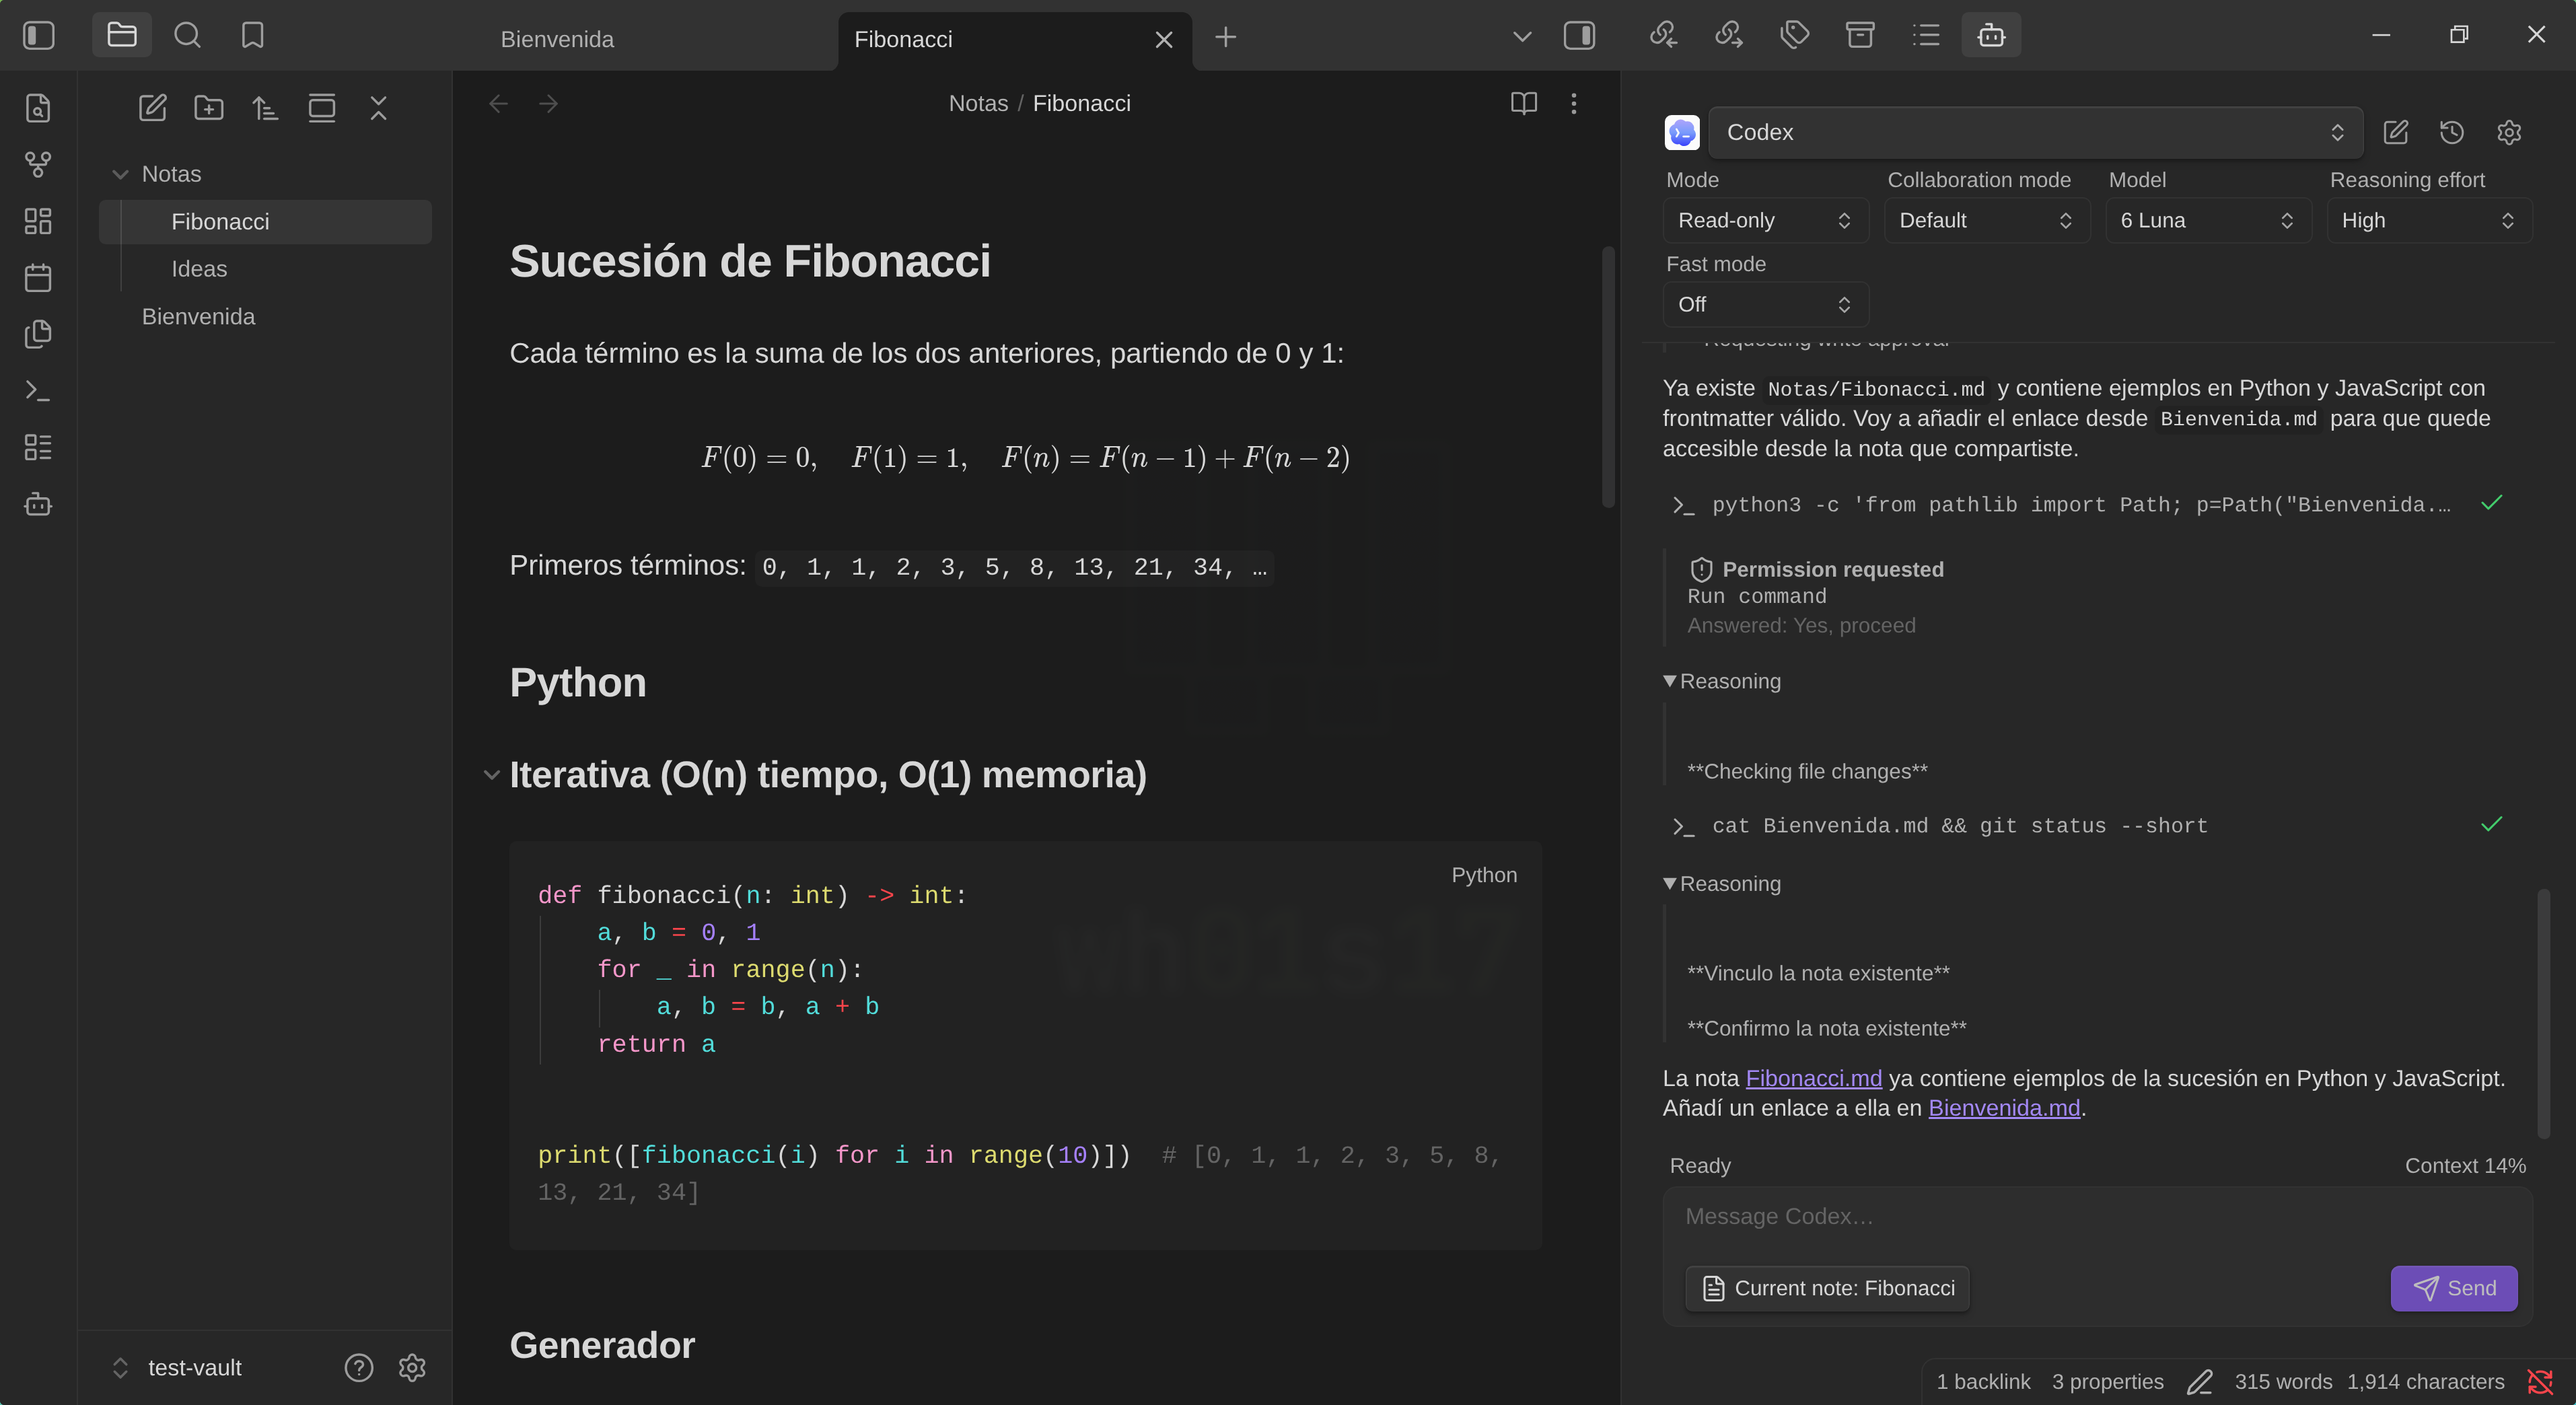
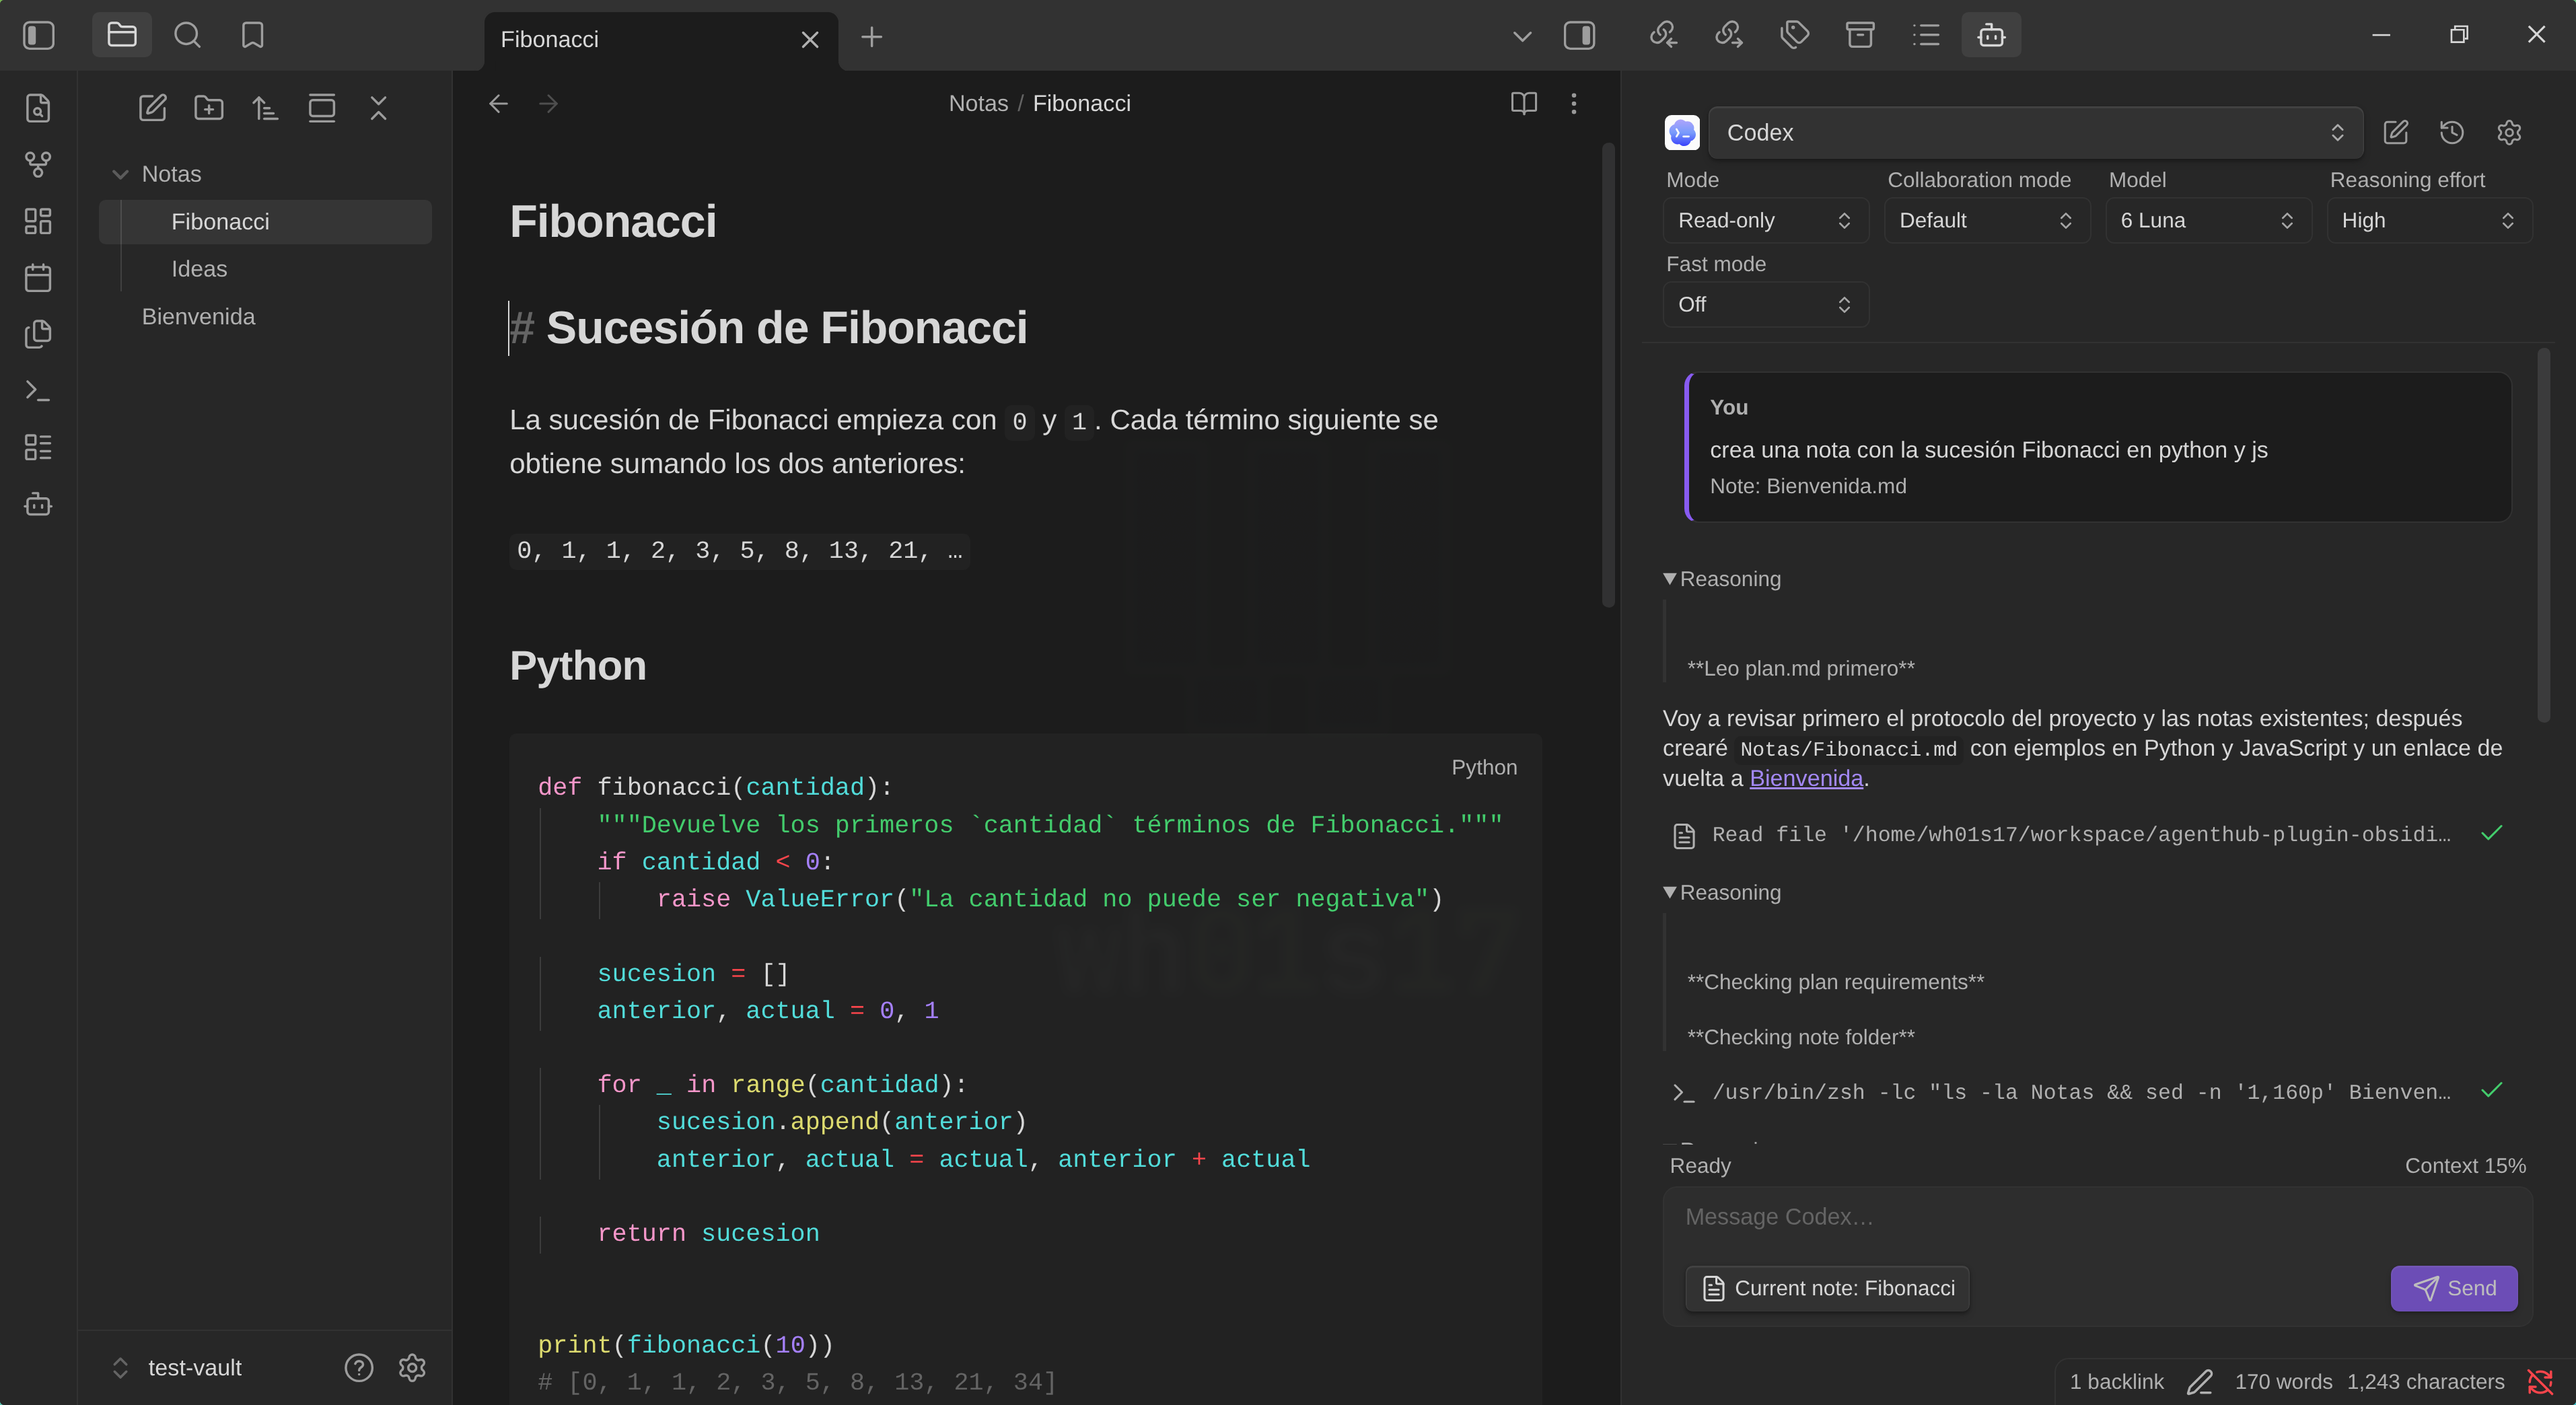
fix(chat): allow mouse selection and document real conversation [T6.10][T6.5]

diff --git a/styles.css b/styles.css
@@ -106,6 +106,7 @@
 }
 
 .agenthub-message.is-user {
+  user-select: text;
   align-self: flex-end;
   flex-shrink: 0;
   width: calc(100% - var(--size-4-3));

diff --git a/plan.md b/plan.md
@@ -41,10 +41,10 @@
 | Campo | Valor |
 |---|---|
 | Fase actual | **Fase 6 — Pulido**: Fases 0–4 cerradas; **0.1.0 preparada localmente**, 0.0.5 sigue publicada. Changelog y capturas del usuario incorporados; BRAT 0.0.5 comprobado. |
-| Próxima tarea | Cerrar revisión humana T6.3/T6.6 según `docs/checklist-0.1.0.md`; completar selección de capturas con el usuario, repetir Claude cuando haya cuota y preparar tag/borrador tras cerrar criterios. Publicar con confirmación. Envío a comunidad opcional; Fase 7 descartada. |
+| Próxima tarea | Cerrar revisión humana T6.3/T6.6 según `docs/checklist-0.1.0.md`; repetir Claude cuando haya cuota y preparar tag/borrador tras cerrar criterios. Capturas del usuario incorporadas. Publicar con confirmación. Envío a comunidad opcional; Fase 7 descartada. |
 | Tareas en paralelo posibles | Publicación opcional en la comunidad (Q3); Fase 5 solo si aparece una limitación real de ACP (ADR-025). |
 | Bloqueos | Pruebas reales de Claude bloqueadas por límite de sesión del proveedor. Lector de pantalla y alto contraste nativo requieren revisión humana en un entorno disponible. |
-| Última actualización | 2026-10-01 — Preparación local 0.1.0, changelog, capturas del usuario, BRAT y e2e reales; pendientes detallados en la checklist, Codex |
+| Última actualización | 2026-10-01 — Arreglada selección con mouse de mensajes propios para 0.1.0; pendientes detallados en la checklist, Codex |
 | Código existente | Núcleo + ACP + UI + contexto de Obsidian (Fases 0–3 cerradas); guardado automático de sesiones con índice/JSONL, debounce, retención y ajustes de historial. Confirmación de modos sin restricciones, Codex en solo lectura y respaldo de opciones Gemini. Lint y build pasan; 198 tests pasan, 2 e2e omitidos. Rama `main`. |
 
 ### 0.2 Protocolo para un agente que retoma el trabajo
@@ -1303,7 +1303,7 @@ aprobar y denegar un permiso, cancelar un turno; al cerrar la vista o desactivar
 - [x] **T6.8** Confirmación explícita y aviso rojo para modos sin restricciones; Codex ACP en solo lectura por defecto (ADR-030).
 - [x] **T6.9** Mostrar y cambiar modelo/modo de agentes ACP que anuncian `models`/`modes` sin `configOptions` (Gemini 0.62); no fabricar opciones de esfuerzo ausentes (ADR-031).
 
-- [x] **T6.10** Mensajes del usuario con etiqueta «Tú»/«You», tarjeta de fondo propio, borde de acento y espacio entre turnos; estilos del tema de Obsidian.
+- [x] **T6.10** Mensajes del usuario con etiqueta «Tú»/«You», tarjeta de fondo propio, borde de acento y espacio entre turnos; estilos del tema de Obsidian y texto seleccionable con el mouse.
 
 ### Fase 7 — Descartada: modo terminal
 
@@ -1692,3 +1692,5 @@ llegar al límite. No aplica a este plan, a archivos generados (`pnpm-lock.yaml`
 - **2026-10-01 · Codex** — Revisadas las adiciones del usuario a §8.4 y AGENTS.md: próxima release 0.1.0; MINOR para funciones/comportamiento/datos y PATCH para arreglos/estilo/rendimiento/docs. README y comentario del workflow sincronizados con el bump manual y tag sin `v`; procedimiento de beta documentado como pre-release sin Latest. Añadida 0.0.5 al historial y corregido el estado del hito: T6.3/T6.6 mantienen sus comprobaciones manuales pendientes. §0.1 incorpora changelog y capturas como requisitos de 0.1.0. Publicación solo con confirmación del usuario. Sin cambios de código ejecutable ni nueva release. Lint/build sin errores y 198 pruebas pasan (2 e2e omitidas).
 
 - **2026-10-01 · usuario + Codex** — Preparación local de **0.1.0 [T6.3/T6.5/T6.6]**: creado CHANGELOG.md con releases publicadas y Unreleased; metadatos sincronizados sin tag ni publicación; instrucciones del script corregidas. A pedido del usuario, capturas exclusivamente aportadas por él: nota con conversación Codex y cuatro vistas de ajustes incorporadas al README; pendientes chat con mensaje propio visible y nueva captura de permisos. La captura de permisos mostró un botón largo que desbordaba: CSS corregido con texto envuelto, comprobado en Obsidian 1.13.7 claro/oscuro al 100/200 %, tarjeta sin desborde. Recorrido nativo del diálogo al 200 %: Tab dentro de los dos botones, Escape conserva modo y devuelve foco. BRAT 2.2.0 verificó instalación limpia 0.0.5 y actualización 0.0.4 → 0.0.5; ajustes y cuatro elementos del transcript conservados (timestamps de guardado cambian). E2e reales: OpenCode/Codex pasan lectura/escritura y reanudación (4 pruebas); Claude falla sus dos pruebas con cuota agotada del proveedor. Suite normal: 198 pasan, 2 optativas omitidas; lint/build sin errores, 7 avisos existentes. Evidencia y guía humana en `docs/release-0.1.0.md` y `docs/checklist-0.1.0.md`. T6.3/T6.6 siguen parciales por lector de pantalla, alto contraste nativo, contraste inconcluso y pasada visual final; después tag/borrador, confirmación y BRAT final 0.1.0. Cambios del usuario en test-vault se dejan fuera del commit de preparación. Fase 7 descartada.
+
+- **2026-10-01 · usuario + Codex** — **T6.10:** corregido el texto del mensaje propio no seleccionable. Reproducción nativa en Obsidian 1.13.7: estilo calculado `user-select: none`, arrastre con mouse sin selección. La tarjeta declara `user-select: text`, también para autor/adjuntos; tras corregir, el mismo arrastre selecciona «Seleccionar este mensaje». Changelog y evidencias actualizados; paquete local 0.1.0 regenerado. Lint/build correctos, 198 pruebas pasan y 2 optativas omitidas; 7 avisos existentes. Sin publicación.

diff --git a/docs/checklist-0.1.0.md b/docs/checklist-0.1.0.md
@@ -19,10 +19,11 @@ Versión pública actual: 0.0.5. Fecha de comprobación: 2026-10-01 (Chile).
 | Conservación de datos con BRAT | Pasa en el caso probado | data.json idéntico y cuatro elementos de la conversación conservados. Las marcas de tiempo de guardado del JSONL cambian al recargar. |
 | Diálogo al 200 %: teclado | Pasa | Build local 0.1.0: foco inicial en cancelar; Tab recorre ambos botones y vuelve al primero; Escape conserva modo y devuelve foco a Mode. Diálogo de 510 px sin desborde; pasada previa de 196 px también comprobada. |
 | Botones de permisos largos | Corregido y comprobado | Texto envuelto, incluso argumentos sin espacios. Temas claro/oscuro, zoom 100/200 %; tarjeta de 250/238 px con scrollWidth idéntico al ancho. |
+| Selección del mensaje propio con mouse | Corregido y comprobado | Arrastre nativo en Obsidian: antes user-select none y selección vacía; después text y texto seleccionado. |
 | Axe en Obsidian | Sin violaciones en el estado probado | Quedan resultados de contraste inconclusos; no equivale a lector de pantalla. |
 | Permiso Codex en Obsidian | Evidencia del usuario | Capturas muestran solicitud, aprobación «Yes, proceed» y respuesta terminada; no comprueban denegación. |
 | Changelog | Hecho | CHANGELOG.md; 0.1.0 sigue en Unreleased hasta publicar. |
-| Capturas README | Incorporadas; selección final parcial | Nota y conversación, agentes, sesiones, contexto y entorno; falta chat con mensaje propio visible y permiso tras corregir el desborde. |
+| Capturas README | Incorporadas | Chat con mensaje propio, nota, herramientas y solicitud de permiso; cuatro vistas de ajustes. El permiso de la captura tiene etiquetas cortas. |
 | Metadatos 0.1.0 | Preparados | package.json, manifest.json y versions.json; minAppVersion 1.8.7 y autor wh01s17. |
 
 ## Lo que requiere revisión humana
@@ -31,9 +32,10 @@ Usar un vault de prueba. Anotar versión de Obsidian, agente, sistema, resultado
 
 ### 1. Capturas para el README
 
-- [ ] Chat: mensaje propio destacado y respuesta breve; plegar Reasoning si ocupa demasiado espacio.
+- [x] Chat: mensaje propio destacado, respuesta, opciones y herramientas visibles.
 - [x] Ajustes: agentes detectados, sesiones, contexto y entorno; cuatro capturas incorporadas.
-- [ ] Permisos: repetir la captura con un texto largo después de cargar el CSS corregido; todos los botones deben caber.
+- [x] Permisos: captura con solicitud y botones de aprobar/denegar incorporada.
+- [ ] Permisos largos: comprobar visualmente con el tema del usuario después de cargar el CSS corregido; todos los botones deben caber. La prueba automatizada de ancho ya pasa.
 
 Enviar las imágenes al agente para incorporarlas. La captura de nota y conversación ya está en docs/images/codex-note.png.
 
@@ -88,7 +90,7 @@ AGENTHUB_E2E_AGENTS=claude-acp pnpm test:e2e
 
 ## Cierre que puede ejecutar el agente
 
-- [ ] Incorporar las capturas restantes enviadas por el usuario.
+- [x] Incorporar las capturas enviadas por el usuario.
 - [ ] Registrar resultados humanos y corregir los fallos encontrados.
 - [ ] Cerrar T6.3/T6.6 cuando los criterios estén realmente comprobados.
 - [ ] Pasar lint/tests/build, cerrar notas de 0.1.0 y crear commit/tag anotado sin v.

diff --git a/docs/release-0.1.0.md b/docs/release-0.1.0.md
@@ -6,8 +6,9 @@ Fecha: 2026-10-01 (Chile). Checklist de cierre: [checklist-0.1.0.md](checklist-0
 ## Cambios preparados
 
 - CHANGELOG.md con historial de las releases 0.0.3–0.0.5 y sección Unreleased para 0.1.0.
-- Capturas aportadas por el usuario: nota con conversación Codex y cuatro vistas de ajustes.
+- Capturas aportadas por el usuario: nota y conversación Codex con mensaje propio, solicitud de permiso y cuatro vistas de ajustes.
 - Corrección de botones de permisos con comandos largos: texto adaptable al panel, sin scroll horizontal.
+- Mensajes propios seleccionables con el mouse: la tarjeta declara user-select: text para sustituir el none heredado de Obsidian.
 - Instrucciones del script de versiones alineadas con el bump manual de plan §8.4.
 - package.json y manifest.json en 0.1.0; entrada añadida a versions.json. Autor wh01s17 y minAppVersion 1.8.7.
 
@@ -58,5 +59,5 @@ No equivale a una nueva interacción de permisos con un proveedor real.
 ## Pendientes
 
 Lector de pantalla, alto contraste nativo, contraste inconcluso con el tema del usuario, pasada visual final
-de los agentes, capturas adicionales solicitadas y Claude con cuota disponible. Después: cierre del changelog,
+de los agentes y Claude con cuota disponible. Capturas del README incorporadas. Después: cierre del changelog,
 commit/tag de release, borrador, confirmación de publicación y comprobación final con BRAT.

diff --git a/README.md b/README.md
@@ -26,9 +26,16 @@ Versión pública: **0.0.5**. **0.1.0 en preparación**, con comprobaciones pend
 
 ## Capturas
 
-Codex trabajando con una nota del vault, opciones del agente, herramientas y permiso aprobado:
+Codex trabajando con una nota del vault, mensaje propio destacado, opciones del agente y herramientas:
 
 ![Nota de Fibonacci en Obsidian junto a la conversación de Codex y sus herramientas](docs/images/codex-note.png)
+
+<details>
+<summary>Solicitud de permiso antes de crear una nota</summary>
+
+![Mensaje propio, herramientas de Codex y botones para aprobar o denegar la creación de una nota](docs/images/codex-permission.png)
+
+</details>
 
 <details>
 <summary>Ajustes de agentes, sesiones, contexto y entorno</summary>

diff --git a/CHANGELOG.md b/CHANGELOG.md
@@ -16,6 +16,7 @@ Preparación del hito **0.1.0**. La fecha y sección definitiva se añadirán al
 
 - Instrucciones del script de sincronización de versiones: indican el bump manual, sin crear tags con prefijo `v`.
 - Los botones de permisos con comandos largos ajustan el texto al ancho del panel, también con zoom.
+- Los mensajes del usuario permiten seleccionar y copiar texto con el mouse, incluidos sus adjuntos.
 
 ## [0.0.5] - 2026-10-01
 
